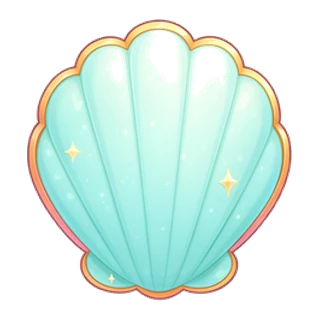
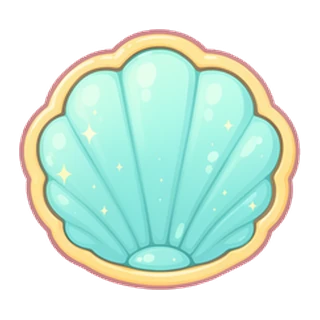
テーマ：そうびの 絵 3まいを 作りなおし（つきの おまもり・かいがらの たて・きしの すねあて）
- つきの おまもり：くさりの 上の わまで 画像に おさまる ように（seed 9025）
- かいがらの たて：ふちが なめらかに つながった たてに（seed 9026）
- きしの すねあて：左右 1くみ・ひざから 足首・ベルトつきの 形に（seed 9027）
ほかの 21まいは そのまま

diff --git a/tools/art/moss_prince.py b/tools/art/moss_prince.py
@@ -32,6 +32,7 @@
   (表情の 指定は いらない)。seed は 9001〜。そのあと  tools/art/.venv/bin/python tools/art/process.py items
     python3 tools/art/moss_prince.py items                   # 24 枚(ある 絵は とばす)
     python3 tools/art/moss_prince.py items p_wand            # その 1 枚だけ 作りなおす
+    python3 tools/art/moss_prince.py items p_moon --seed 9028   # seed を かえて 作りなおす（ITEM_SEEDS も なおす）
 """
 import json
 import os
@@ -240,23 +241,30 @@ ITEMS = [
     ("m_pearlband", "A turquoise sports headband with small white pearls along the band", True, False, False),
     ("m_scaledress", "A turquoise and mint fish-scale armor vest for a child with gold shoulder edges", True, False, False),
     ("m_trident", "A small golden trident spear with three points and a turquoise handle", False, False, False),
-    ("m_shellbag", "A small round shield shaped like a pale turquoise scallop seashell with a gold rim", False, False, False),
+    ("m_shellbag", "A small round shield shaped like a pale turquoise scallop seashell, with a smooth continuous rounded gold rim all the way around the edge", False, False, False),
     ("p_hairribbon", "A red hero headband with two long tails and a small gold emblem", True, False, False),
     ("p_pearlpin", "A round gold knight badge with a blue shield emblem and a small red ribbon", False, False, False),
     ("p_flowercrown", "A green laurel wreath crown with small gold berries", True, False, False),
     ("p_tiara", "A golden prince crown with five points and small red and blue gems", True, False, False),
     ("p_balldress", "A shiny silver knight chestplate armor for a child with gold trim and a blue gem in the center", True, True, False),
     ("p_cape", "A royal red short cape with a white fluffy fur collar and gold trim", True, False, False),
-    ("p_lacesocks", "A pair of silver knight shin guards with gold trim", True, True, False),
+    ("p_lacesocks", "A pair of silver knight greaves for a child's legs, left and right side by side, each a long curved plate shaped to cover the shin from the knee down to the ankle, with a brown leather strap and a small gold buckle", True, True, False),
     ("p_glassshoes", "A pair of brown knight boots with gold buckles and silver toe caps", True, False, False),
     ("p_wand", "A small hero sword with a silver blade, a gold cross guard, a blue handle and a round blue gem on the pommel", False, True, False),
     ("p_mirror", "A round shining knight shield, silver with a gold rim and a golden sun emblem", False, True, False),
     ("p_necklace", "A gold medal with a blue and red ribbon and a star in the middle", False, False, False),
-    ("p_moon", "A yellow crescent moon charm with a small gold star hanging from a short gold chain", False, False, False),
+    ("p_moon", "A yellow crescent moon charm with a small gold star, hanging from a short gold chain with a small ring at the top end, the whole chain and ring shown completely, with a wide empty margin at the top of the picture", False, False, False),
 ]
 
 
+# 作りなおした ときの seed（さいしょの 9001〜9024 の つづき）。--seed で その 1まいだけ かえられる
+ITEM_SEEDS = {"p_moon": 9025, "m_shellbag": 9026, "p_lacesocks": 9027}
+
+
 def items(args):
+    seed_arg = None
+    if "--seed" in args:
+        i = args.index("--seed"); seed_arg = int(args[i + 1]); args = args[:i] + args[i + 2:]
     named = [a for a in args if not a.startswith("--")]
     spec = json.loads((G.HERE / "assets.json").read_text())
     api = api_from_env()
@@ -268,7 +276,8 @@ def items(args):
             print(f"skip {out} (ある)")
             continue
         entry = {"key": f"items/{out}", "mode": "generate", "subject": subject, "wearable": wearable, "lilac": lilac, "creature": creature}
-        prompt, seed, t0 = G.build_prompt(spec, entry), 9001 + n, time.time()
+        seed = seed_arg if seed_arg is not None else ITEM_SEEDS.get(iid, 9001 + n)
+        prompt, t0 = G.build_prompt(spec, entry), time.time()
         try:
             conv = api.call("POST", "/api/images/conversations")["conversation_id"]
             job = api.call("POST", "/api/media/jobs", body={

diff --git a/docs/prince-theme.md b/docs/prince-theme.md
@@ -19,7 +19,7 @@
 | ドラゴン（こども・おとな） | `src/art/dragons/{fire,water,light}_{child,adult}_prince.webp` | 6 | 元の プロンプト・seed ＋ 表情の 指定（水の おとなは 胸の ハートを negative で けした） |
 | 主人公 | `src/art/chars/{witch,mermaid,princess}_{idle,happy,oops}_prince.webp` | 9 | 立ち絵は 新しく 生成（seed 8101/8202/8303。カイは slightly で よわめた）、表情は flux-klein で 立ち絵から |
 | 妖精 | `src/assets/fairy/fairy-{mint,ramune,poppy,peta}{,-bust,-face}_prince.webp` | 4（＋切りだし 8） | ミント・ポピーは 元の プロンプト・seed ＋ 表情・マント。ラムネ・ペタは 元の 絵から flux-klein（顔と 色を のこすため） |
-| そうび | `src/art/items/<id>_prince.webp` | 24 | 今の アイテムと 同じ 絵がらで 新しく（seed 9001〜9024） |
+| そうび | `src/art/items/<id>_prince.webp` | 24 | 今の アイテムと 同じ 絵がらで 新しく（seed 9001〜9024、作りなおし 9025〜9027） |
 | チャレンジの ボタン | ドラゴン（fire_child_prince）・ミント（bust_prince） | － | 上の 絵を つかう |
 
 ### まだ 共通の 絵の もの
@@ -28,7 +28,7 @@
 - ものがたりの たっせい イベントの 場面の 絵（おしろ・ぶとうかい・たたかい・かんせい。SVG）
 - 絵が 無い ときに 出る SVG の 主人公（ふだんは 出ない）
 
-### 見なおし候補
-- p_moon_prince（つきの おまもり）：上の くさりが ふちで 切れている
-- m_shellbag_prince（かいがらの たて）：上の ふちに 切れこみ
-- p_lacesocks_prince（きしの すねあて）：かぶとの ように 見える
+### 作りなおした そうび（seed は 9001〜9024 の つづき）
+- p_moon_prince（つきの おまもり）seed 9025：くさりの 上の わまで 画像に おさまる ように 上に よはく
+- m_shellbag_prince（かいがらの たて）seed 9026：ふちが なめらかに つながった たて
+- p_lacesocks_prince（きしの すねあて）seed 9027：左右 1くみ・ひざから 足首・ベルトつき
